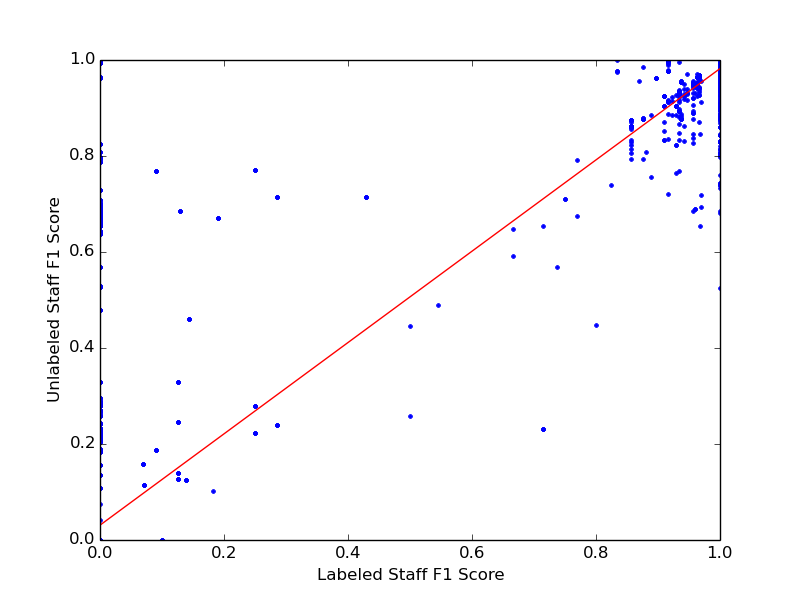
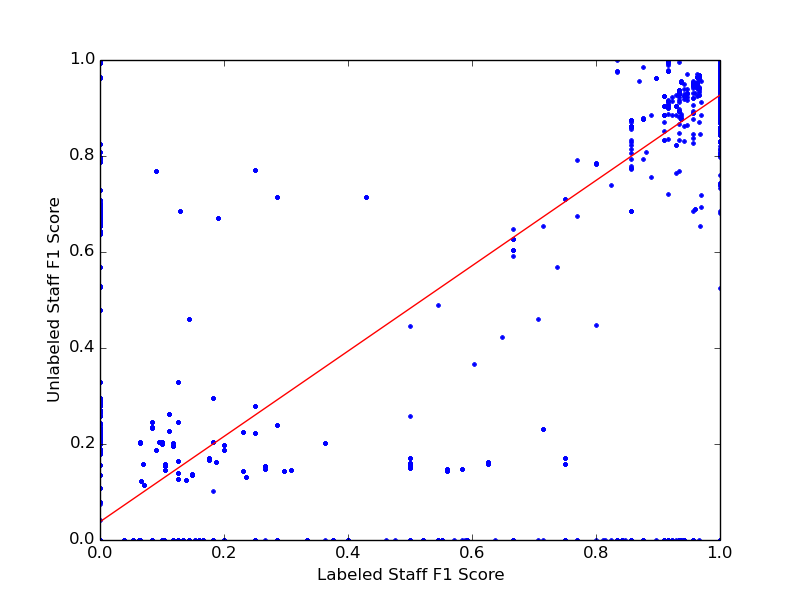
Cleaned up analysis

diff --git a/analysis/gamera_testset_analysis.py b/analysis/gamera_testset_analysis.py
@@ -1,18 +1,18 @@
 import pandas
 import numpy as np
 import gzip
-import pylab
 
 labeled = pandas.DataFrame.from_csv(gzip.open('pagedata-staves.csv.gz'))
-index = pandas.Series(list(labeled.index)).str.extract('^(?P<method>[a-z]+)-(?P<doc>[a-z0-9]+)-(?P<noise>.+)')
+index = pandas.Series(list(labeled.index)).str.extract('^(?P<method>[a-z_0-9]+)-(?P<doc>[a-z0-9]+)-(?P<noise>.+)')
 multiindex = pandas.MultiIndex.from_tuples([tuple(index.iloc[i]) for i in xrange(len(index))])
 labeled.index = multiindex
-pageMethods = labeled.fillna(0)
-pageMethods.index.names = 'method doc noise'.split()
+labeled = labeled.fillna(0)
+labeled.index.names = 'method doc noise'.split()
+labeled.columns = 'sens spec time'.split()
 
 unlabeled = pandas.DataFrame.from_csv(gzip.open('staves.csv.gz'))
 ul_index = pandas.Series(list(unlabeled.index)).str.extract(
-    '^(?P<method>[a-z]+)-?(?P<native>native)?-(?P<doc>[a-z0-9]+)-(?P<noise>.+?)-?(?P<staffpage>S[0-9]+|page)$')
+    '^(?P<method>[a-z_0-9]+)-?(?P<native>native)?-(?P<doc>[a-z0-9]+)-(?P<noise>.+?)-?(?P<staffpage>S[0-9]+|page)$')
 ul_index.native.fillna('', inplace=True)
 ul_multiindex = pandas.MultiIndex.from_tuples(ul_index.apply(tuple, axis=1), names=ul_index.columns)
 unlabeled.index = ul_multiindex
@@ -43,46 +43,46 @@ unlabeled.index = unlabeled.index.droplevel('native')
 allstaves = unlabeled[unlabeled.index.get_level_values('staffpage') != 'page']
 allstaves.index = allstaves.index.droplevel('staffpage')
 allstaves = allstaves.drop('score', 1)
-
-#noises = allstaves.index.droplevel('method').droplevel('doc')
-#badnoise = noises[(allstaves.runs < 100).groupby(noises).any()]
-#goodunl = ~unlabeled.index.get_level_values('noise').isin(badnoise)
-#unlabeled = unlabeled.iloc[goodunl]
-
-allstaves = unlabeled[unlabeled.index.get_level_values('staffpage') != 'page']
-allstaves.index = allstaves.index.droplevel('staffpage')
-allstaves = allstaves.drop('score', 1)
-
 allstaves = allstaves.groupby(allstaves.index).sum()
 allstaves.index = pandas.MultiIndex.from_tuples(allstaves.index,
-                                                names=pageMethods.index.names)
+                                                names=labeled.index.names)
 allstaves['score'] = allstaves.removed / allstaves.runs
-uls = allstaves.score.fillna(0)
+ul_sens = allstaves.score.fillna(0)
+ul_spec = unlabeled.xs('page', level='staffpage').score
+ul_spec = ul_spec.groupby(ul_spec.index).first()
+ul_spec.index = pandas.MultiIndex.from_tuples(ul_spec.index, names='method doc noise'.split())
+unlabeled = pandas.DataFrame(ul_sens).join(pandas.DataFrame(ul_spec))
+unlabeled.columns = ['sens', 'spec']
+scores = labeled[['sens','spec']].join(unlabeled,rsuffix='_ul')
+scores.columns = pandas.MultiIndex.from_product([
+                        ['labeled','unlabeled'],
+                        ['sens','spec']],
+                    names=['type','score'])
+scores.fillna(0, inplace=True)
 
-ulp = unlabeled.xs('page', level='staffpage').score
-ulp = ulp.groupby(ulp.index).first()
-ulp.index = pandas.MultiIndex.from_tuples(ulp.index, names='method doc noise'.split())
-
-sens = pandas.DataFrame(pageMethods.staff_sens).join(pandas.DataFrame(ulp))
-sens = sens[(~sens.isnull()).all(axis=1)]
+sens = scores[[0,2]]
 sens.columns = ['labeled', 'unlabeled']
-# print sens.unstack(0).fillna(0).mean(0).unstack(0)
-spec = pandas.DataFrame(pageMethods.staff_spec).join(pandas.DataFrame(uls)).fillna(0)
-spec = spec[(~spec.isnull()).all(axis=1)]
+spec = scores[[1,3]]
 spec.columns = ['labeled', 'unlabeled']
 f1 = (2*sens*spec/(sens + spec)).fillna(0)
 
 def scatter_plot(score, color='.'):
+    import pylab
     l, ul = np.array(score.T)
     pylab.plot(*((l, ul) + (color,) * (color is not None)))
 
-scatter_plot(f1, 'b.')
-pylab.xlim([0, 1])
-pylab.ylim([0, 1])
-pylab.xlabel('Labeled Staff F1 Score')
-pylab.ylabel('Unlabeled Staff F1 Score')
-# Linear regression: ul = m*l + b
-l, ul = np.array(f1.T)
-m, b = np.polyfit(l, ul, 1)
-pylab.plot([0, 1], [b, b+m], 'r')
-pylab.savefig('gamera_labeled_vs_unlabeled_scatter.png')
+if __name__ == '__main__':
+    import pylab
+    pylab.figure()
+    scatter_plot(f1, 'b.')
+    pylab.xlim([0, 1])
+    pylab.ylim([0, 1])
+    pylab.xlabel('Labeled Staff F1 Score')
+    pylab.ylabel('Unlabeled Staff F1 Score')
+    # Linear regression: ul = m*l + b
+    l, ul = np.array(f1.T)
+    m, b = np.polyfit(l, ul, 1)
+    pylab.plot([0, 1], [b, b+m], 'r')
+    pylab.savefig('gamera_labeled_vs_unlabeled_scatter.png')
+
+    scores.groupby(scores.index.get_level_values('method')).apply(lambda x: x.mean(axis=0)).to_csv('gamera_performance.csv')
